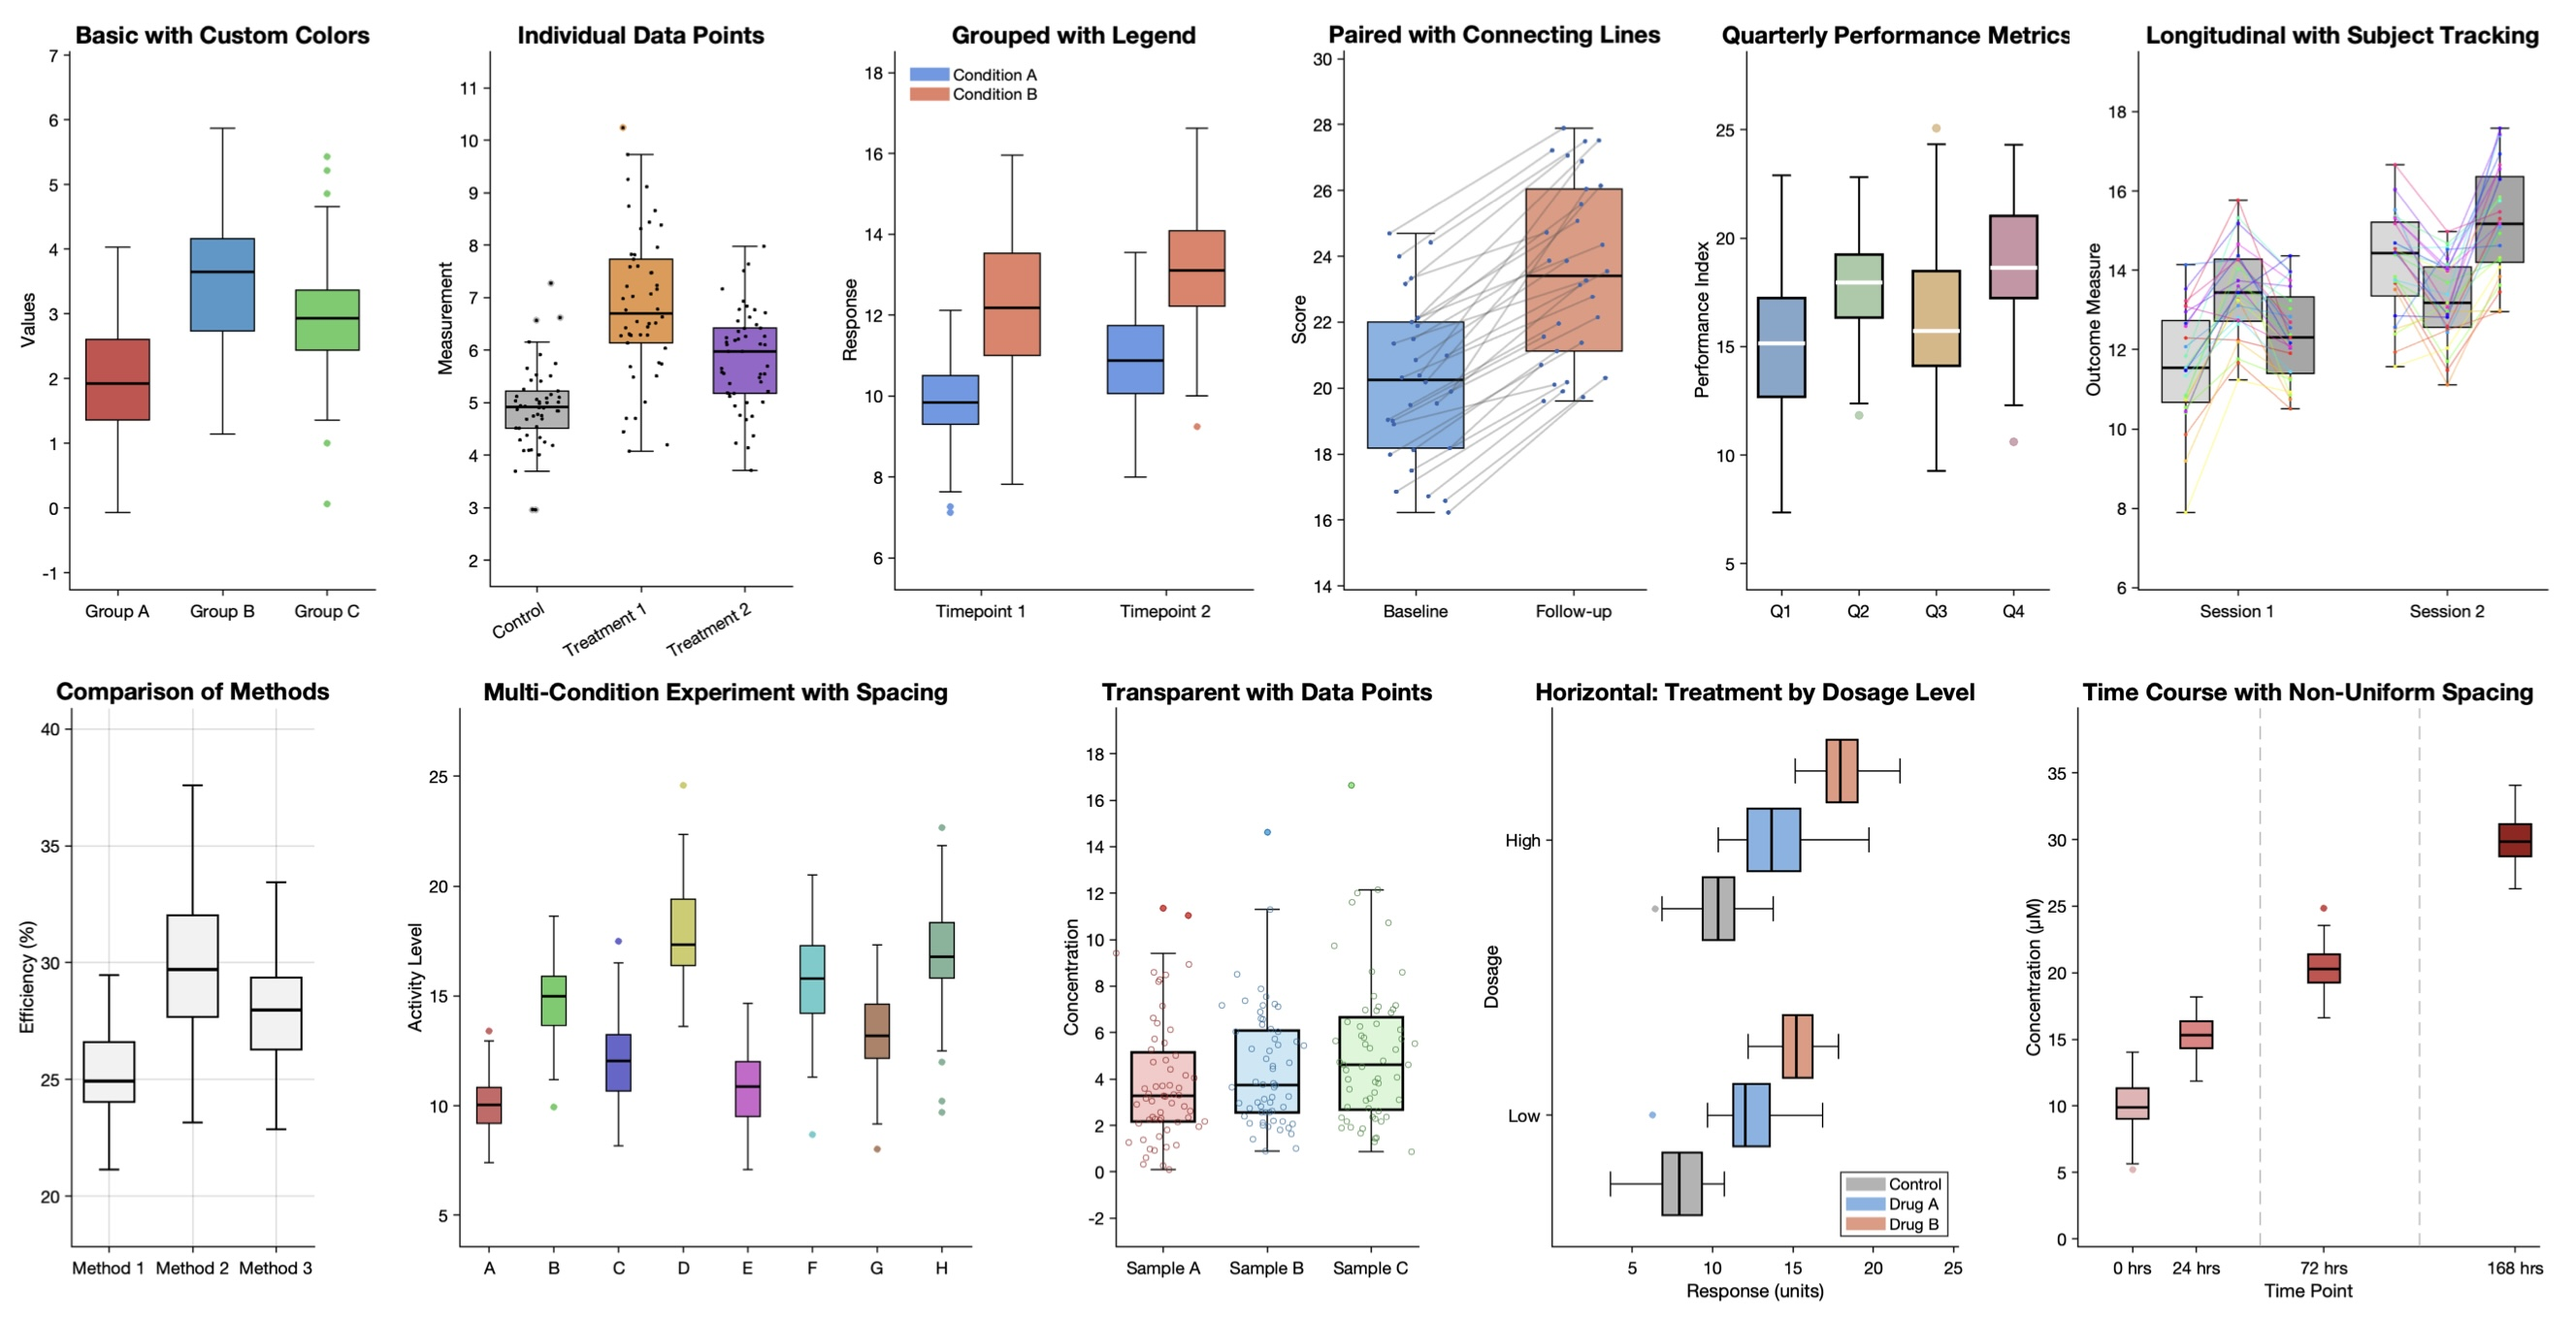
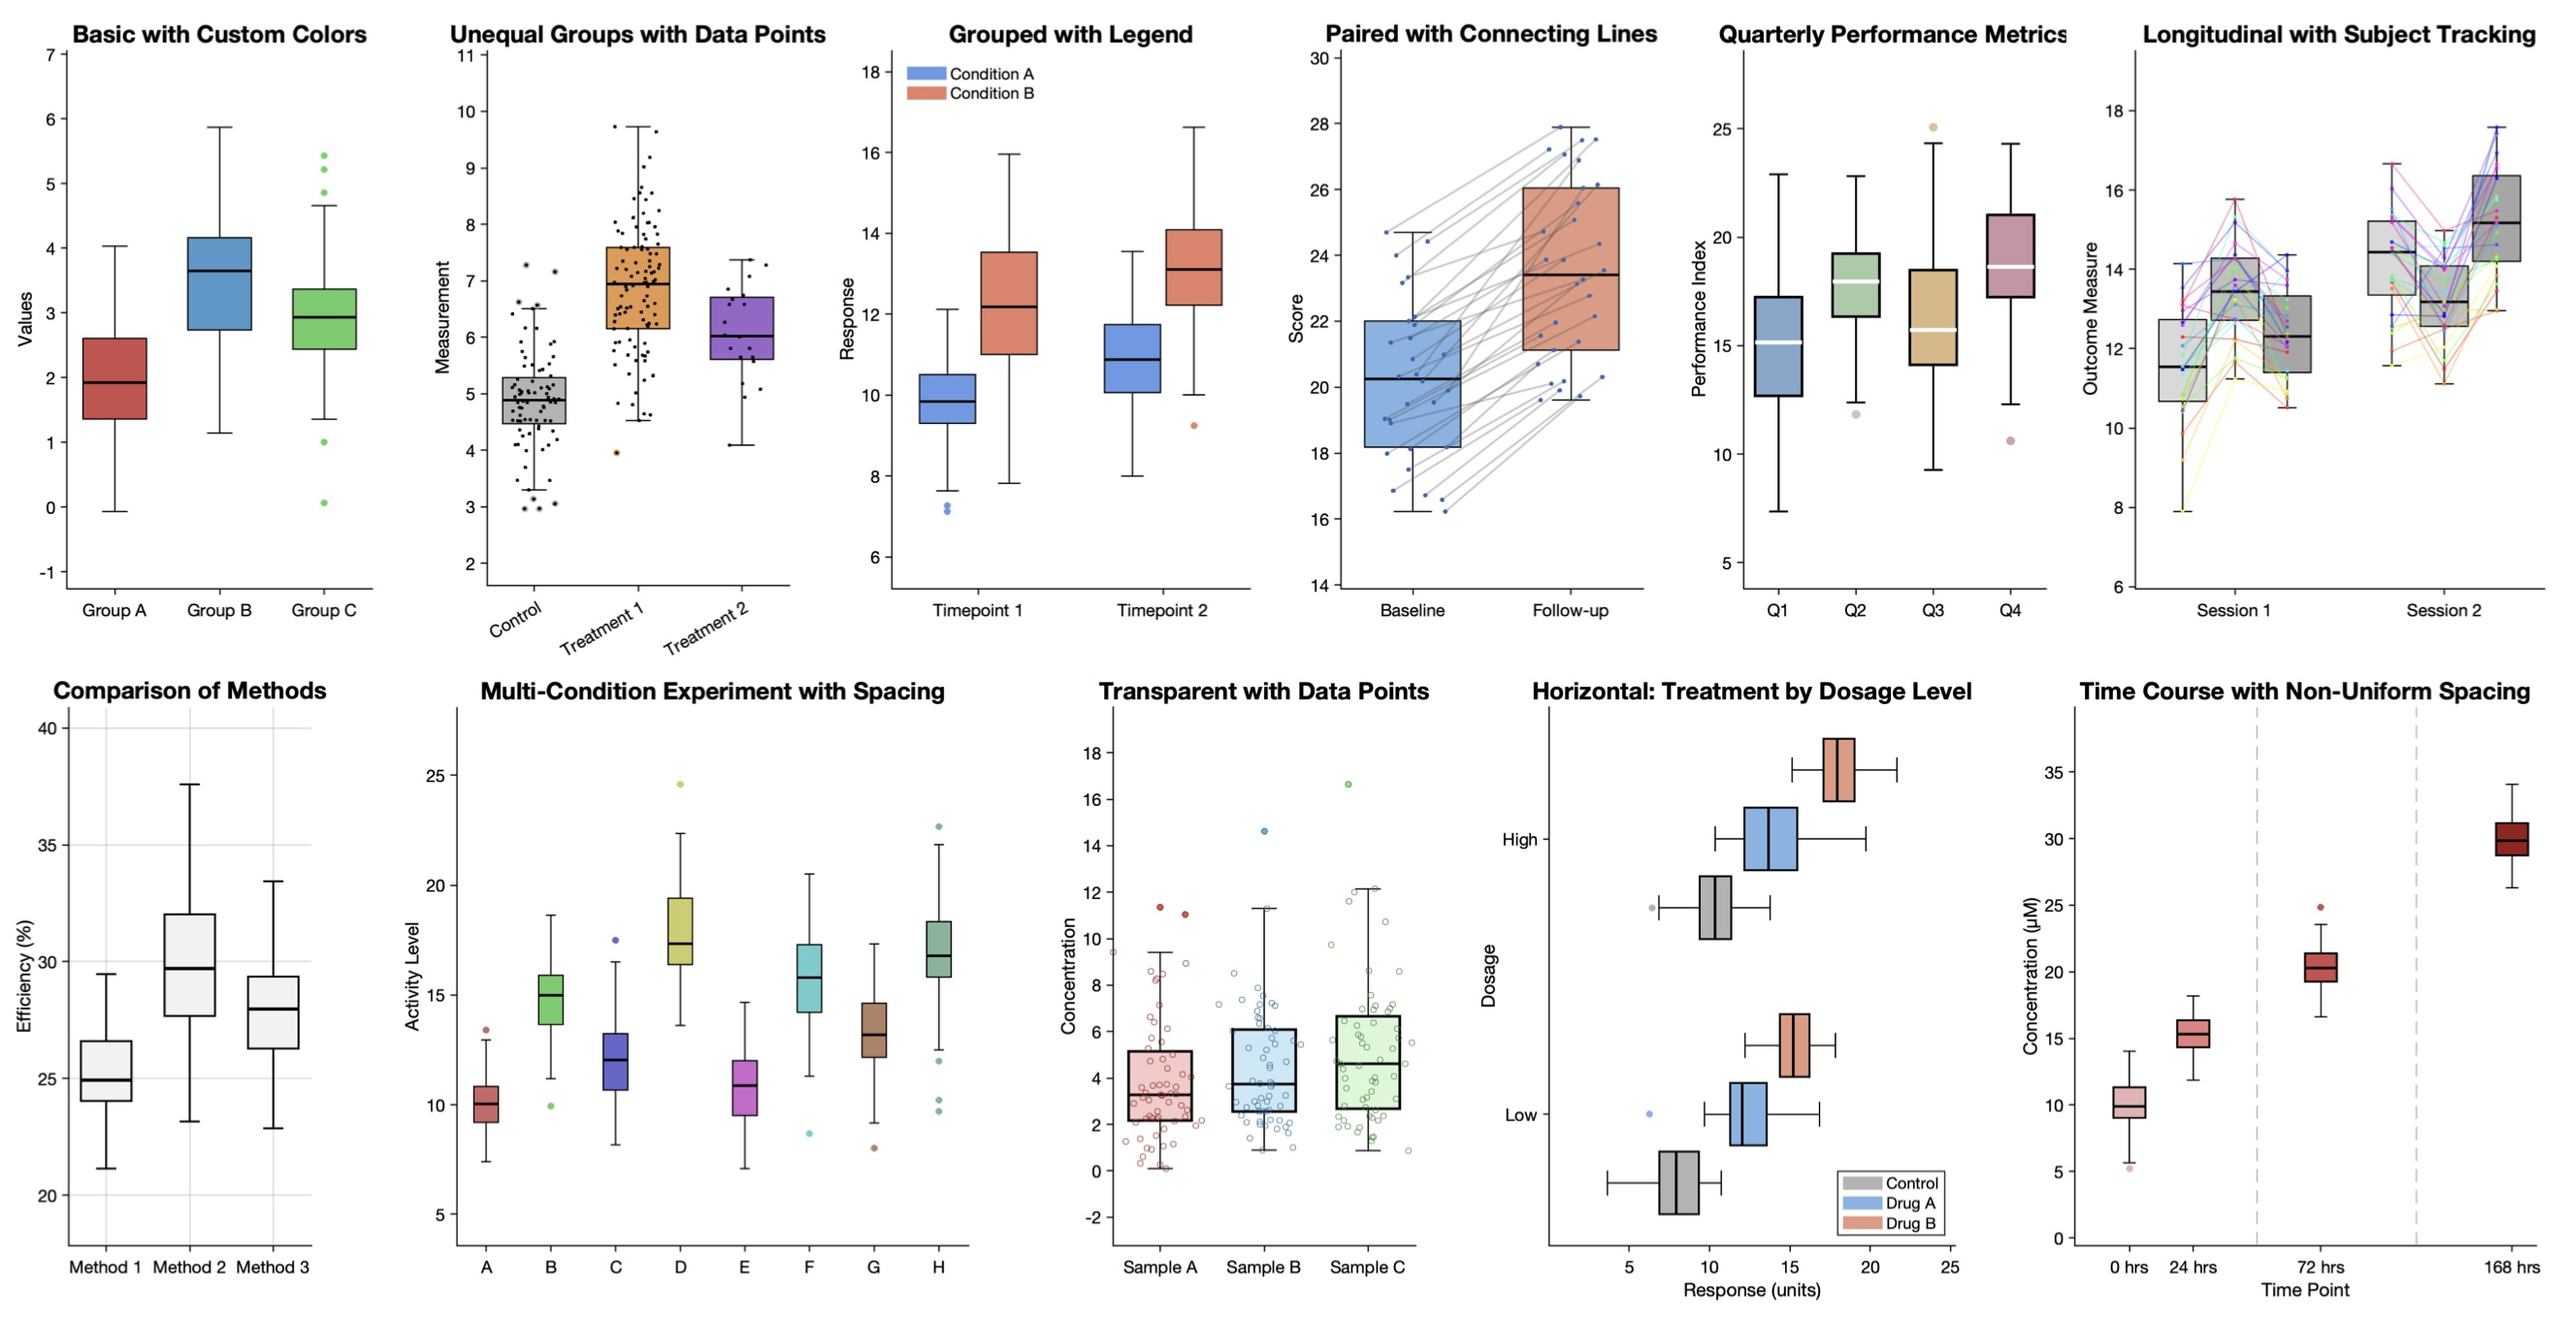
Fix and test vector input with integer labels

diff --git a/boxPlot.m b/boxPlot.m
@@ -20,13 +20,16 @@ function [xCoordinates, lgdObject] = boxPlot(inputData, NameValueArgs)
 %
 %   inputData -- Numeric vector or matrix of data for boxplot. 
 %                If inputData is a matrix, each column will be plotted as a box.
-%                If inputData is a vector, specify categorical name-value 
-%                argument inputLabels to plot multiple boxes. 
+%                If inputData is a vector (row or column), specify the name-value argument 
+%                inputLabels to plot multiple boxes. Groups can have different sizes.
 %
 % Name-Value Arguments:
 %
 %   inputLabels (default: []) 
-%       Vector of categorical labels for vector input.
+%       Vector (row or column) of integer labels for vector input. Each unique  
+%       integer specifies a group, and the integers determine the order of boxes 
+%       along the plotting axis (e.g., 1, 2, 3). Groups can have different
+%       numbers of observations. Use boxLabels to specify textual labels.
 %
 %   groupSize (default: 1) 
 %       Scalar specifying the number of boxes per group.
@@ -252,6 +255,25 @@ arguments
 end
 
 %% Get dataset dimensions
+% Convert vector input with labels to padded matrix format
+if isvector(inputData) && numel(NameValueArgs.inputLabels) == numel(inputData)
+    % Get unique labels and find maximum group size
+    uniqueLabels = sort(unique(NameValueArgs.inputLabels), 'ascend');
+    nBoxes = numel(uniqueLabels);
+    maxGroupSize = max(histcounts(NameValueArgs.inputLabels, [uniqueLabels(:); max(uniqueLabels)+1]));
+    
+    % Create padded matrix with NaN for missing values
+    paddedData = nan(maxGroupSize, nBoxes);
+    for i = 1:nBoxes
+        groupData = inputData(NameValueArgs.inputLabels == uniqueLabels(i));
+        paddedData(1:numel(groupData), i) = groupData;
+    end
+    
+    % Replace inputData and reset inputLabels for matrix processing
+    inputData = paddedData;
+    NameValueArgs.inputLabels = reshape(repmat(1:size(inputData,2), [size(inputData,1), 1]), [], 1);
+end
+
 nBoxes = numel(unique(NameValueArgs.inputLabels));
 nGroups = nBoxes / NameValueArgs.groupSize;
 nSamples = size(inputData, 1);

diff --git a/boxPlot_Examples.m b/boxPlot_Examples.m
@@ -23,9 +23,11 @@ ylabel('Values', 'FontSize', 14);
 
 figure('Position', [100, 100, 300, 500]);
 rng(2);
-data2 = [randn(50, 1) * 0.8 + 5, randn(50, 1) * 1.2 + 7, randn(50, 1) * 0.9 + 6];
+data2_vec = [randn(80, 1) * 0.8 + 5; randn(100, 1) * 1.2 + 7; randn(20, 1) * 0.9 + 6];
+labels2 = [ones(80, 1); 2*ones(100, 1); 3*ones(20, 1)];
 
-boxPlot(data2, ...
+boxPlot(data2_vec, ...
+    'inputLabels', labels2, ...
     'boxLabels', {'Control', 'Treatment 1', 'Treatment 2'}, ...
     'boxColors', {[0.7, 0.7, 0.7], [0.9, 0.6, 0.3], [0.6, 0.4, 0.8]}, ...
     'plotPoints', true, ...
@@ -33,7 +35,7 @@ boxPlot(data2, ...
     'pointAlpha', 0.4, ...
     'pointJitter', 'rand');
 
-title('Individual Data Points', 'FontSize', 18);
+title('Unequal Groups with Data Points', 'FontSize', 18);
 ylabel('Measurement', 'FontSize', 14);
 
 %% Example 3: Grouped Boxplots with Legend

diff --git a/README.md b/README.md
@@ -29,10 +29,24 @@ addpath('/path/to/boxPlot');
 
 ## Quick Start
 
-### Basic Usage
+### Vector Input with Integer Labels
 
 ```matlab
-% Generate sample data
+% Generate sample data with different group sizes
+data = [randn(80, 1) + 5; randn(100, 1) + 7; randn(60, 1) + 6];
+labels = [ones(80, 1); 2*ones(100, 1); 3*ones(60, 1)];
+
+% Create boxplot - integers determine box order along axis
+boxPlot(data, ...
+    'inputLabels', labels, ...
+    'boxLabels', {'Group A', 'Group B', 'Group C'}, ...
+    'boxColors', {[0.8, 0.3, 0.3], [0.3, 0.6, 0.8], [0.4, 0.8, 0.4]});
+```
+
+### Matrix Input
+
+```matlab
+% Generate sample data (each column becomes a box)
 data = randn(100, 3) + [5, 7, 6];
 
 % Create boxplot with custom colors
@@ -156,11 +170,14 @@ xCoordinates = boxPlot(inputData)
 ### Input Arguments
 
 - `inputData` - Numeric matrix or vector containing data to plot
+  - If matrix: each column becomes a box
+  - If vector: use with `inputLabels` to specify groups (can have different sizes)
 
 ### Name-Value Arguments (Selected)
 
 | Argument | Default | Description |
 |----------|---------|-------------|
+| `inputLabels` | `[]` | Integer vector specifying group membership for vector input. Integers determine box order (e.g., 1, 2, 3). Groups can have different sizes. |
 | `boxLabels` | `{1:N}` | Cell array of x-axis (or y-axis for horizontal) labels |
 | `boxColors` | Gray | Cell array of RGB colors for box fills |
 | `boxAlpha` | `1` | Box fill transparency (0-1) |
@@ -186,7 +203,7 @@ See full documentation in the function header for all 40+ customization options.
 
 The included `boxPlot_Examples.m` script demonstrates:
 
-1. Basic boxplot with custom colors
+1. Vector input with different group sizes (integer labels)
 2. Boxplot with individual data points
 3. Grouped boxplots with legend
 4. Paired data with connecting lines
